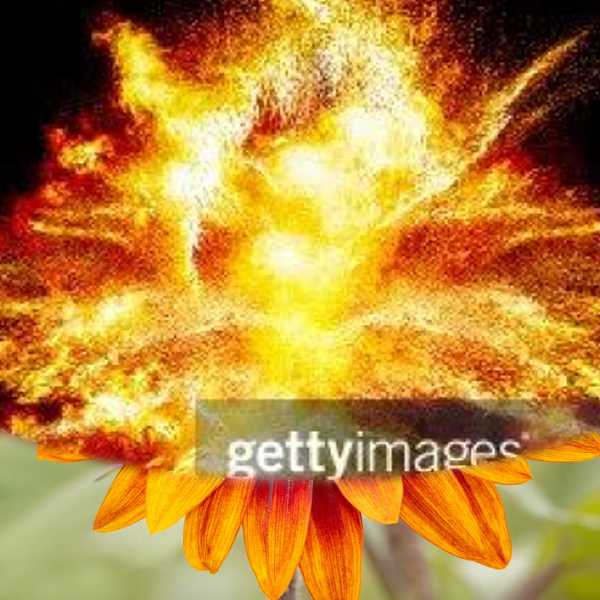
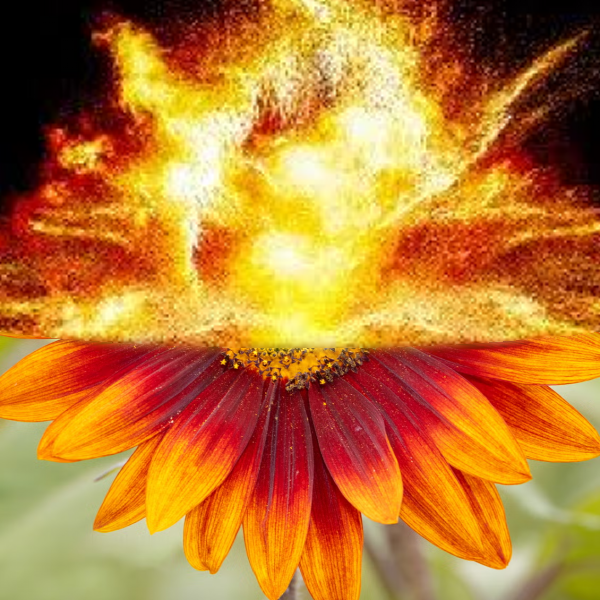
Limit sunflower semicircle to upper half

Changed region(s): [[0.0, 0.54, 1.0, 0.81]]

diff --git a/projects/project2/blend.py b/projects/project2/blend.py
@@ -46,13 +46,13 @@ def upper_semicircle_mask(shape):
     height, width = shape[:2]
     y, x = np.mgrid[:height, :width]
     cx = width / 2
-    cy = height * 0.50
+    cy = height * 0.48
     rx = width * 0.72
-    ry = height * 0.30
+    ry = height * 0.10
     top_half = y <= cy
-    lower_semicircle = ((x - cx) / rx) ** 2 + ((y - cy) / ry) ** 2 <= 1
-    lower_semicircle &= y > cy
-    mask = top_half | lower_semicircle
+    shallow_semicircle = ((x - cx) / rx) ** 2 + ((y - cy) / ry) ** 2 <= 1
+    shallow_semicircle &= y > cy
+    mask = top_half | shallow_semicircle
     return np.repeat(mask[:, :, None].astype(float), 3, axis=2)
 
 
